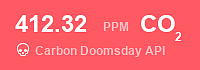
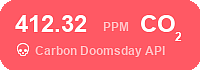
Refactor and add border radius.

diff --git a/draw.py b/draw.py
@@ -5,24 +5,47 @@
 # https://stackoverflow.com/a/2563883/2532070
 from PIL import Image, ImageFont, ImageDraw, ImageEnhance
 
+
 ppm = "412.32"
-img = Image.new('RGB', (200, 70), color="#FF5964")
 
-large_font = ImageFont.truetype('/Library/Fonts/Arial Bold.ttf', 24)
-small_font = ImageFont.truetype('/Library/Fonts/Arial Bold.ttf', 12)
 
-size = 16, 16
-skull_image = Image.open('./skull.png', 'r')
-skull_image.thumbnail(size, Image.ANTIALIAS)
+def add_border_radius(im, rad):
+    circle = Image.new('L', (rad * 2, rad * 2), 0)
+    draw = ImageDraw.Draw(circle)
+    draw.ellipse((0, 0, rad * 2, rad * 2), fill=255)
+    alpha = Image.new('L', im.size, 255)
+    w, h = im.size
+    alpha.paste(circle.crop((0, 0, rad, rad)), (0, 0))
+    alpha.paste(circle.crop((0, rad, rad, rad * 2)), (0, h - rad))
+    alpha.paste(circle.crop((rad, 0, rad * 2, rad)), (w - rad, 0))
+    alpha.paste(circle.crop((rad, rad, rad * 2, rad * 2)), (w - rad, h - rad))
+    im.putalpha(alpha)
+    return im
 
-d = ImageDraw.Draw(img)
-d.text((15, 10), ppm, font=large_font, fill="#FFF")
-d.text((103, 20), "PPM", font=small_font, fill="#FFB3B8")
-d.text((140, 10), "CO", font=large_font, fill="#FFF")
-d.text((175, 30), "2", font=small_font, fill="#FFF")
-d.text((35, 44), "Carbon Doomsday API", font=small_font, fill="#FFB3B8")
 
-img.paste(skull_image, (15, 42), mask=skull_image)
+def create_email_signature(ppm):
+    img = Image.new('RGB', (200, 70), color="#FF5964")
 
-enhancer = ImageEnhance.Sharpness(img)
-enhancer.enhance(2.0).save('carbondoomsday_email_signature.png')
+    large_font = ImageFont.truetype('/Library/Fonts/Arial Bold.ttf', 24)
+    small_font = ImageFont.truetype('/Library/Fonts/Arial Bold.ttf', 12)
+
+    size = 16, 16
+    skull_image = Image.open('./skull.png', 'r')
+    skull_image.thumbnail(size, Image.ANTIALIAS)
+
+    d = ImageDraw.Draw(img)
+    d.text((15, 10), ppm, font=large_font, fill="#FFF")
+    d.text((103, 20), "PPM", font=small_font, fill="#FFB3B8")
+    d.text((140, 10), "CO", font=large_font, fill="#FFF")
+    d.text((175, 30), "2", font=small_font, fill="#FFF")
+    d.text((35, 44), "Carbon Doomsday API", font=small_font, fill="#FFB3B8")
+
+    img.paste(skull_image, (15, 42), mask=skull_image)
+
+    img = add_border_radius(img, 15)
+
+    enhancer = ImageEnhance.Sharpness(img)
+    enhancer.enhance(2.0).save('carbondoomsday_email_signature.png')
+
+if __name__ == '__main__':
+    create_email_signature(ppm)

diff --git a/README.md b/README.md
@@ -5,4 +5,4 @@
 1. Run `python draw.py`
 
 ### Output
-<a href="https://www.carbondoomsday.com"><img style="border-radius: 5px" src="carbondoomsday_email_signature_sample.png"/></a>
+<a href="https://www.carbondoomsday.com"><img src="carbondoomsday_email_signature_sample.png"/></a>
